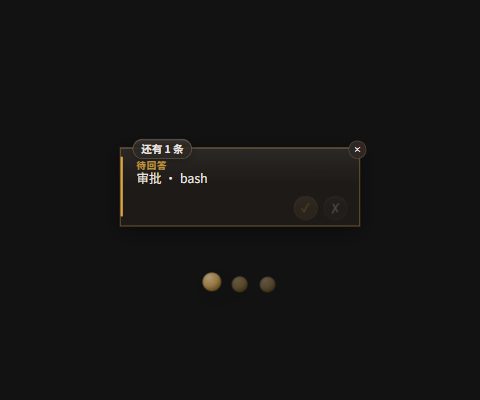
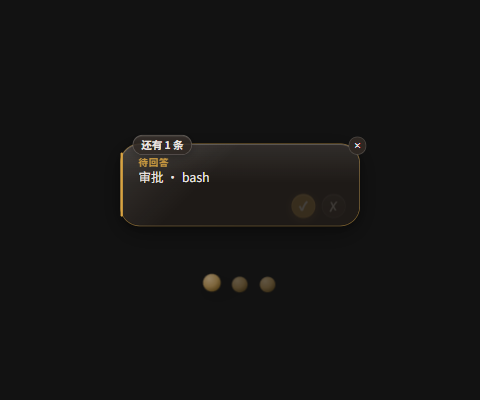
style(desktop): 桌宠气泡液态玻璃强化——20px 大圆角、对角光泽+亮顶边、层叠柔影；主确认按钮实心 accent（kimiwork 气泡对标）

diff --git a/packages/desktop-app/src/styles/pet-window.css b/packages/desktop-app/src/styles/pet-window.css
@@ -236,20 +236,23 @@
 	width: 100%;
 	max-width: none;
 	box-sizing: border-box;
-	padding: 8px 12px;
-	border: 1px solid color-mix(in oklab, var(--color-text) 18%, transparent);
-	border-radius: var(--radius-2xl);
-	/* Glass-look surface: a translucent tint + top highlight gradient +
-	 * inner hairline fake the frosted sheen. The window is fully
-	 * transparent (per-pixel alpha), so the body behind the card is
-	 * desktop — no native vibrancy layer to blur; the self-drawn
-	 * recipe is the one and only glass path on every platform. */
+	padding: 10px 14px;
+	border: 1px solid color-mix(in oklab, var(--color-text) 16%, transparent);
+	border-radius: 20px;
+	/* Glass-look surface (kimi-work bubble parity): a translucent tint +
+	 * diagonal sheen + a bright top-edge hairline fake the frosted look.
+	 * The window is fully transparent (per-pixel alpha), so the body
+	 * behind the card is desktop — no native vibrancy layer to blur; the
+	 * self-drawn recipe is the one and only glass path on every platform. */
 	background:
-		linear-gradient(180deg, color-mix(in oklab, var(--color-text) 7%, transparent), transparent 45%),
+		linear-gradient(135deg, color-mix(in oklab, var(--color-text) 12%, transparent) 0%, transparent 38%),
+		linear-gradient(180deg, color-mix(in oklab, var(--color-text) 9%, transparent), transparent 48%),
 		var(--pet-surface);
 	box-shadow:
-		inset 0 1px 0 color-mix(in oklab, var(--color-text) 14%, transparent),
-		0 4px 20px rgba(0, 0, 0, 0.45);
+		inset 0 1px 0 color-mix(in oklab, var(--color-text) 22%, transparent),
+		inset 0 -1px 0 color-mix(in oklab, #000 12%, transparent),
+		0 6px 24px rgba(0, 0, 0, 0.35),
+		0 2px 8px rgba(0, 0, 0, 0.28);
 	pointer-events: auto;
 	/* Blur/fade transitions for the collapse morph — spring easing
 	 * (--spring) for a natural settle instead of the default ease. */
@@ -489,21 +492,20 @@
 	color: var(--color-accent);
 }
 
-/* Primary confirm — the accent-tinted filled chip (the screenshot's blue
- * ✓): one filled button per card so the confirm action is the obvious one. */
+/* Primary confirm — the FILLED accent circle (kimi-work's blue ✓): one
+ * solid button per card so the confirm action is obvious at a glance. */
 .pet-bubble__action--primary {
-	background:
-		linear-gradient(180deg, color-mix(in oklab, var(--color-text) 10%, transparent), transparent 50%),
-		color-mix(in oklab, var(--color-accent) 26%, var(--pet-chip-bg));
-	border-color: color-mix(in oklab, var(--color-accent) 45%, transparent);
-	color: var(--color-accent);
+	background: color-mix(in oklab, var(--color-accent) 82%, var(--pet-chip-bg));
+	border-color: color-mix(in oklab, var(--color-accent) 70%, transparent);
+	color: var(--color-accent-foreground, #fff);
 	font-weight: 700;
+	box-shadow:
+		inset 0 1px 0 color-mix(in oklab, #fff 22%, transparent),
+		0 2px 8px color-mix(in oklab, var(--color-accent) 38%, transparent);
 }
 
 .pet-bubble__action--primary:hover {
-	background:
-		linear-gradient(180deg, color-mix(in oklab, var(--color-text) 12%, transparent), transparent 50%),
-		color-mix(in oklab, var(--color-accent) 38%, var(--pet-chip-bg));
+	background: color-mix(in oklab, var(--color-accent) 94%, var(--pet-chip-bg));
 }
 
 .pet-bubble__action--deny:hover {
